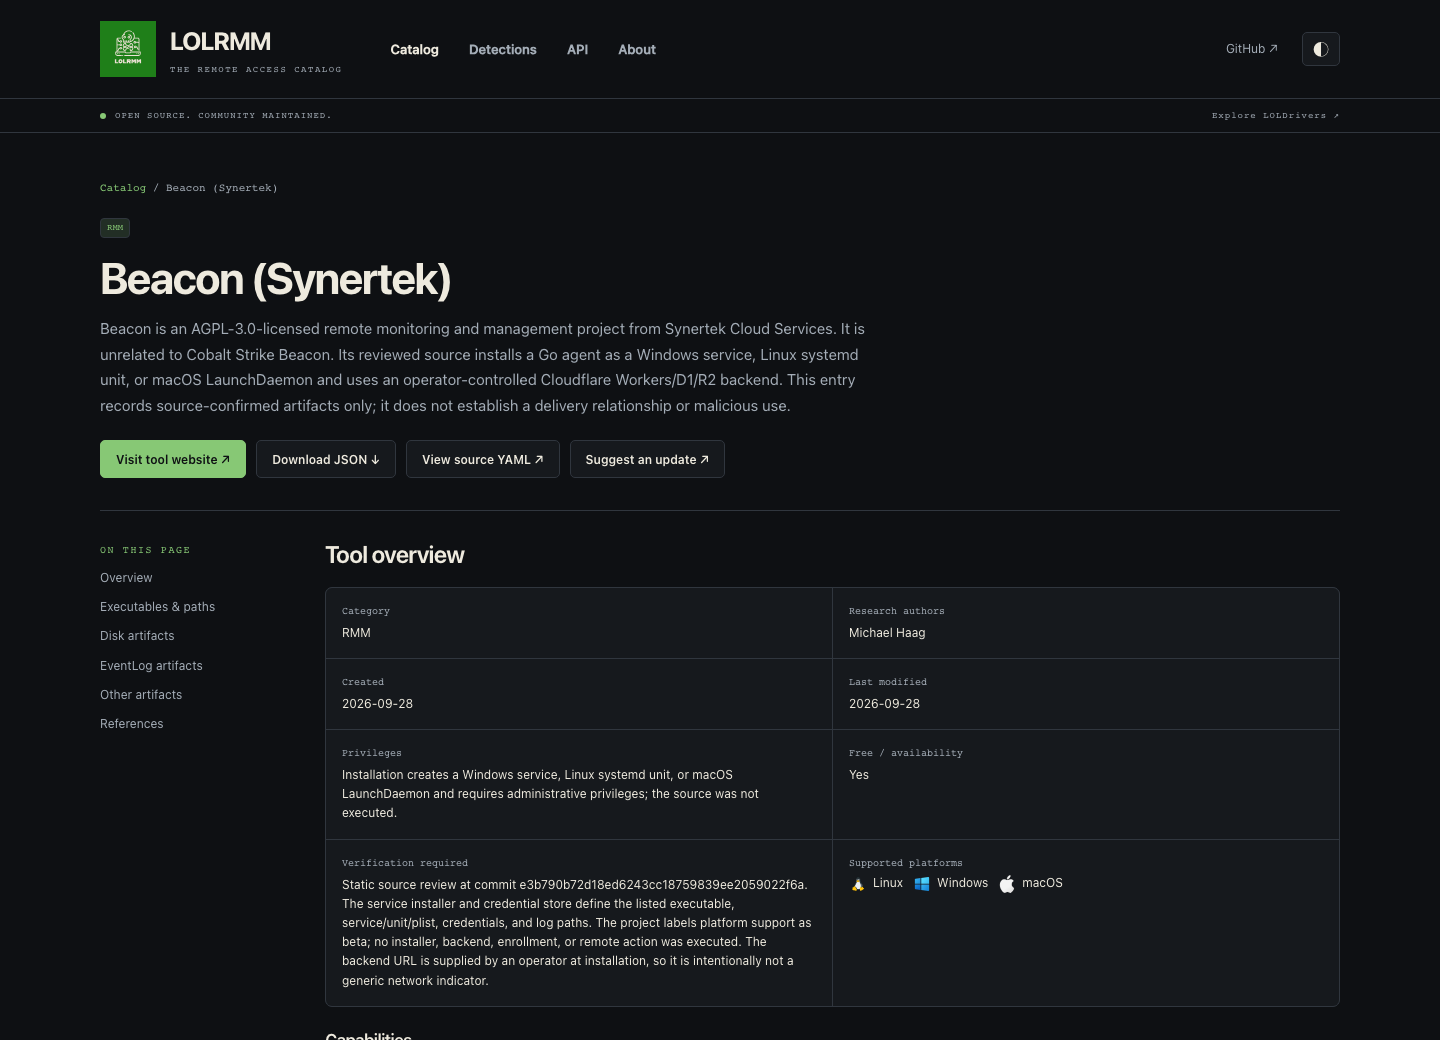
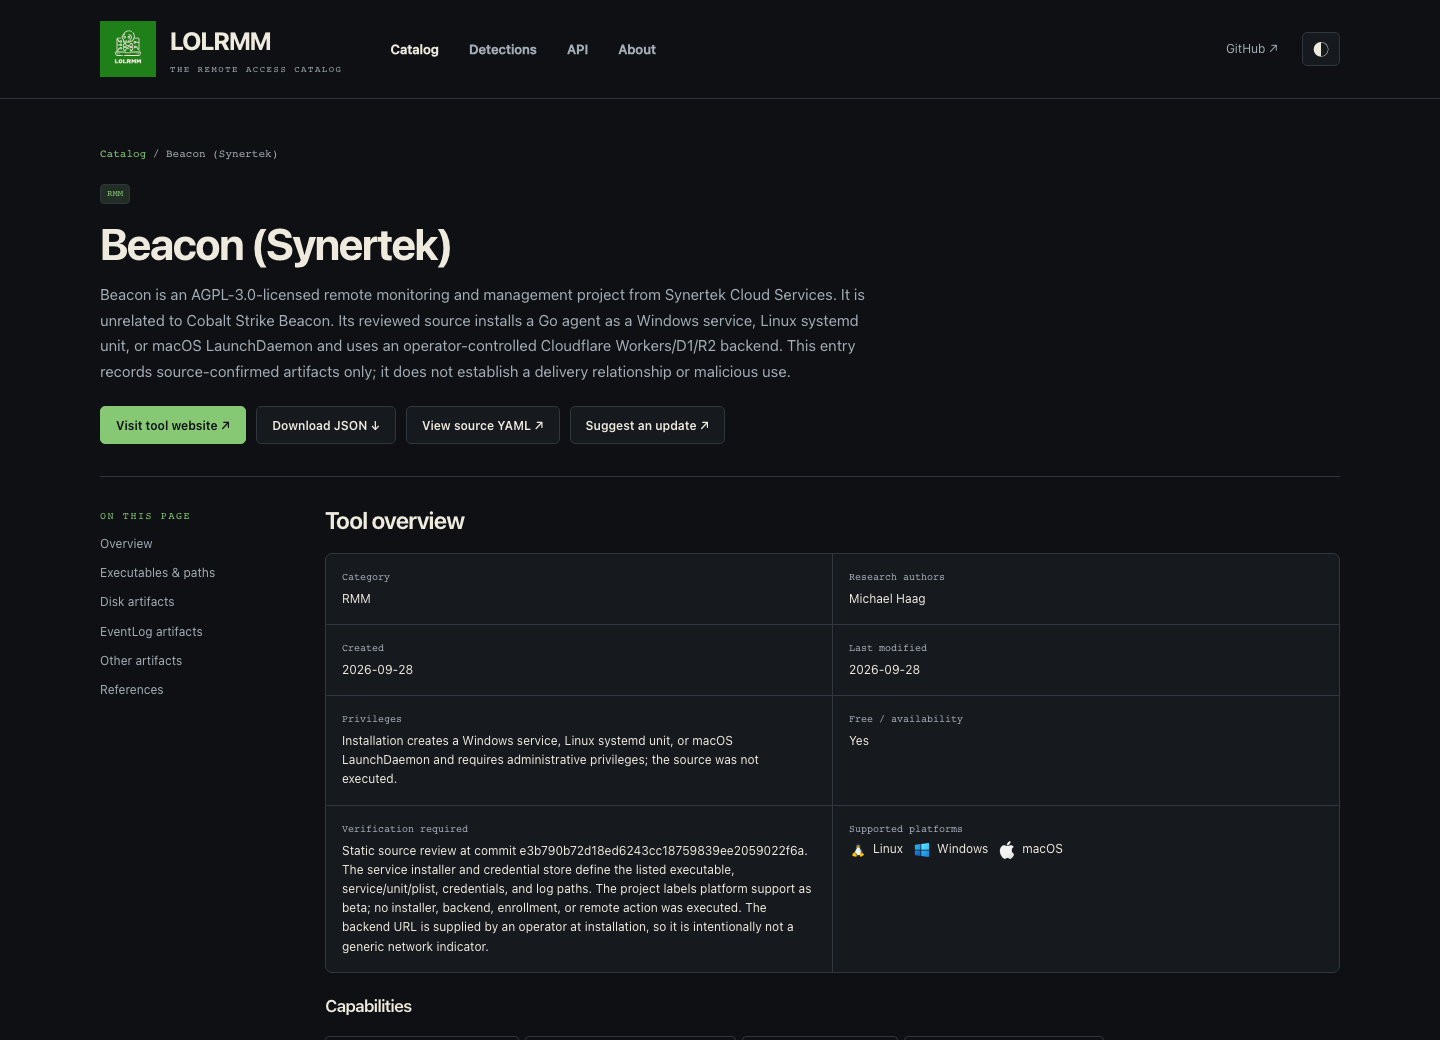
Simplify landing metrics and remove community status strip

diff --git a/website/src/styles/global.css b/website/src/styles/global.css
@@ -205,24 +205,6 @@ p {
   border-radius: 5px;
   font-size: 19px;
 }
-.status-strip {
-  border-bottom: 1px solid var(--line);
-  font: 9px/1.5 var(--mono);
-  letter-spacing: 1px;
-  color: var(--muted);
-}
-.status-strip .wrap {
-  min-height: 33px;
-  display: flex;
-  justify-content: space-between;
-  align-items: center;
-  gap: 12px;
-}
-.status-strip .wrap > span {
-  display: flex;
-  align-items: center;
-  gap: 9px;
-}
 .status-dot {
   display: inline-block;
   width: 6px;
@@ -346,7 +328,7 @@ p {
 }
 .metrics {
   display: grid;
-  grid-template-columns: repeat(4, 1fr);
+  grid-template-columns: repeat(3, 1fr);
   padding: 24px 0;
   border-top: 1px solid var(--line);
   border-bottom: 1px solid var(--line);
@@ -1337,13 +1319,6 @@ td time {
   .navigation nav a {
     font-size: 12px;
   }
-  .status-strip {
-    font-size: 7px;
-    letter-spacing: 0.7px;
-  }
-  .status-strip a {
-    display: none;
-  }
   .hero {
     padding: 36px 0 31px;
     display: block;
@@ -1379,16 +1354,19 @@ td time {
     margin-bottom: 23px;
   }
   .metrics > div {
-    padding: 18px 15px !important;
-    border-left: 1px solid var(--line);
+    padding: 18px 0;
+    border-left: 0;
     gap: 4px;
   }
-  .metrics > div:nth-child(odd) {
-    padding-left: 0 !important;
-    border-left: 0;
+  .metrics > div:first-child {
+    grid-column: 1 / -1;
   }
-  .metrics > div:nth-child(n + 3) {
+  .metrics > div:nth-child(n + 2) {
     border-top: 1px solid var(--line);
+  }
+  .metrics > div:last-child {
+    padding-left: 15px;
+    border-left: 1px solid var(--line);
   }
   .metrics strong {
     font-size: 29px;
